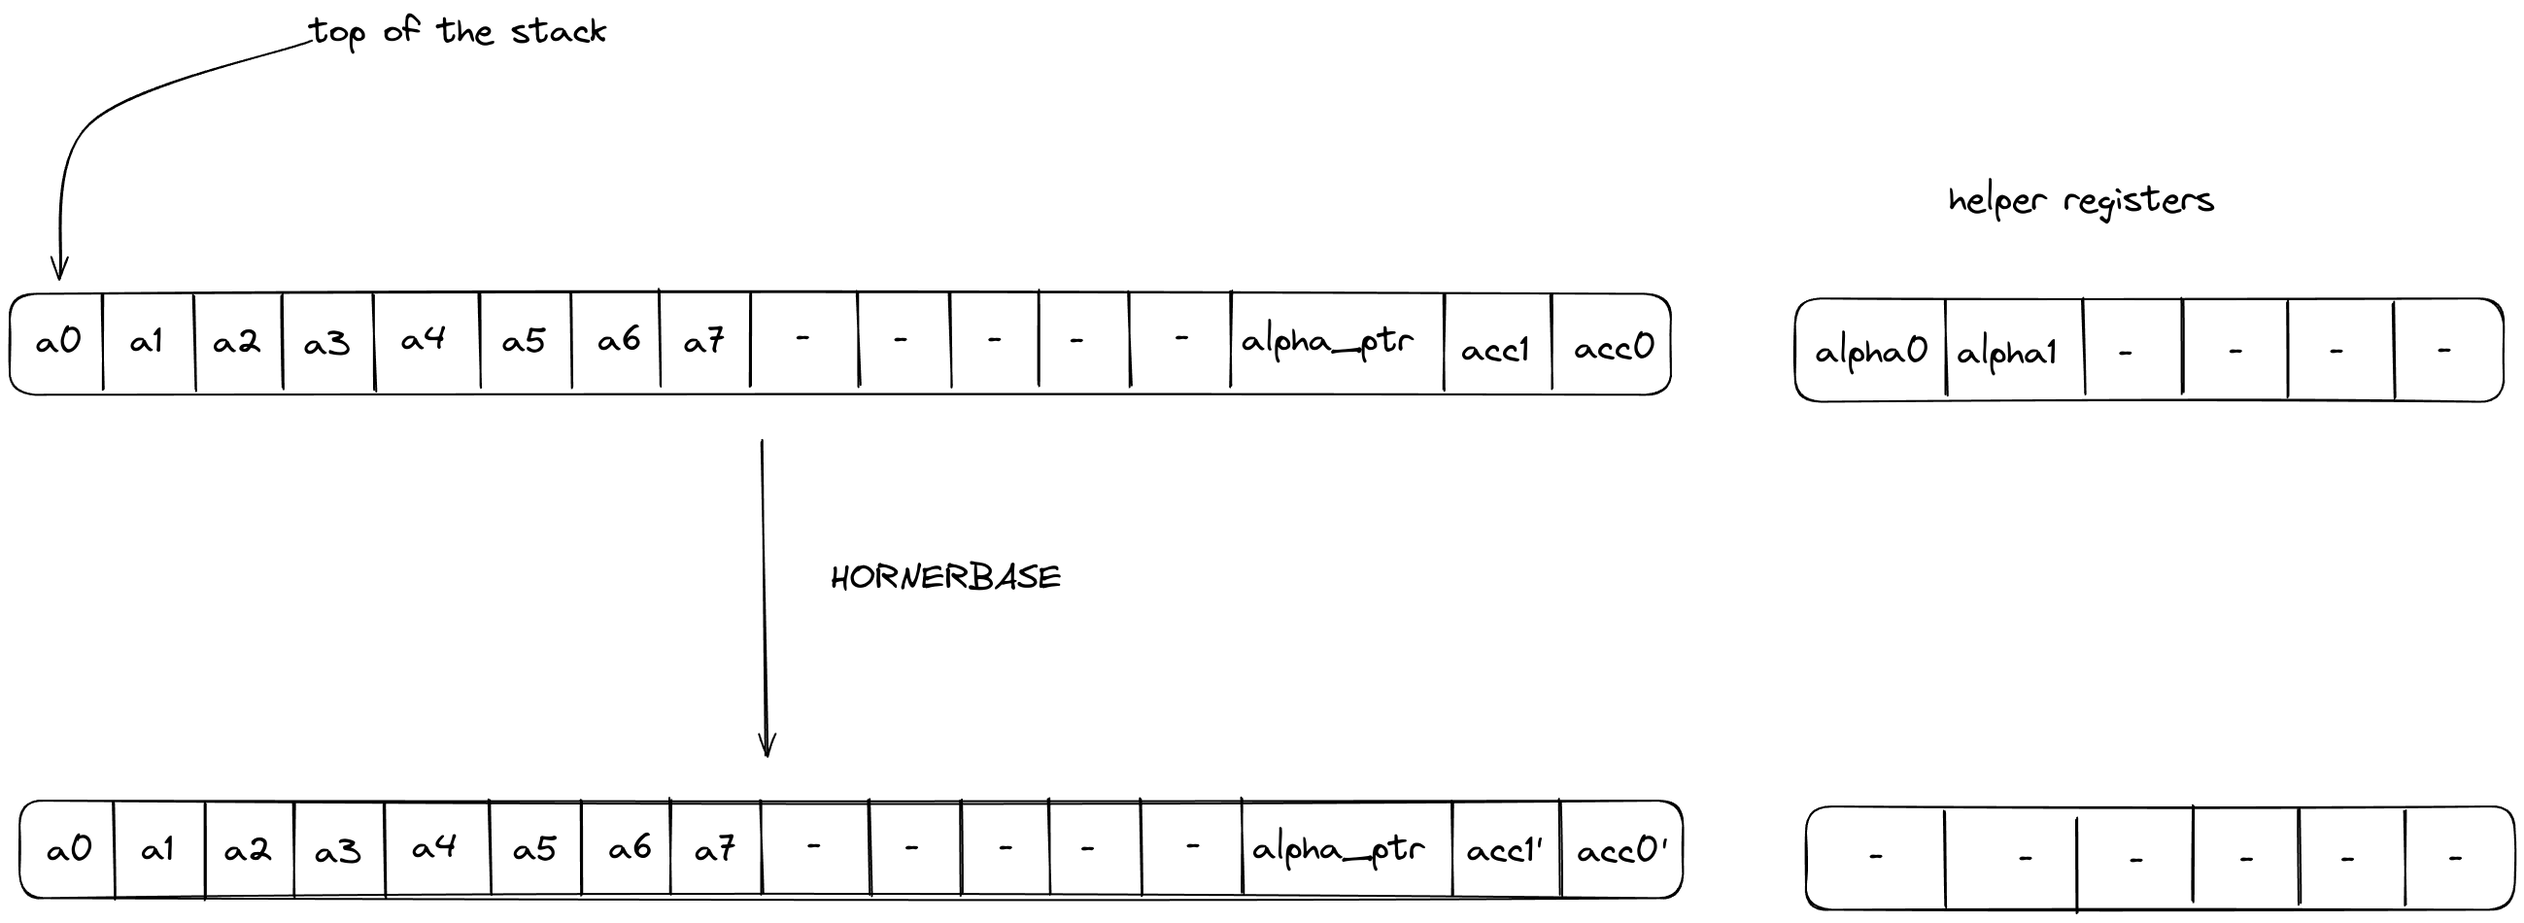
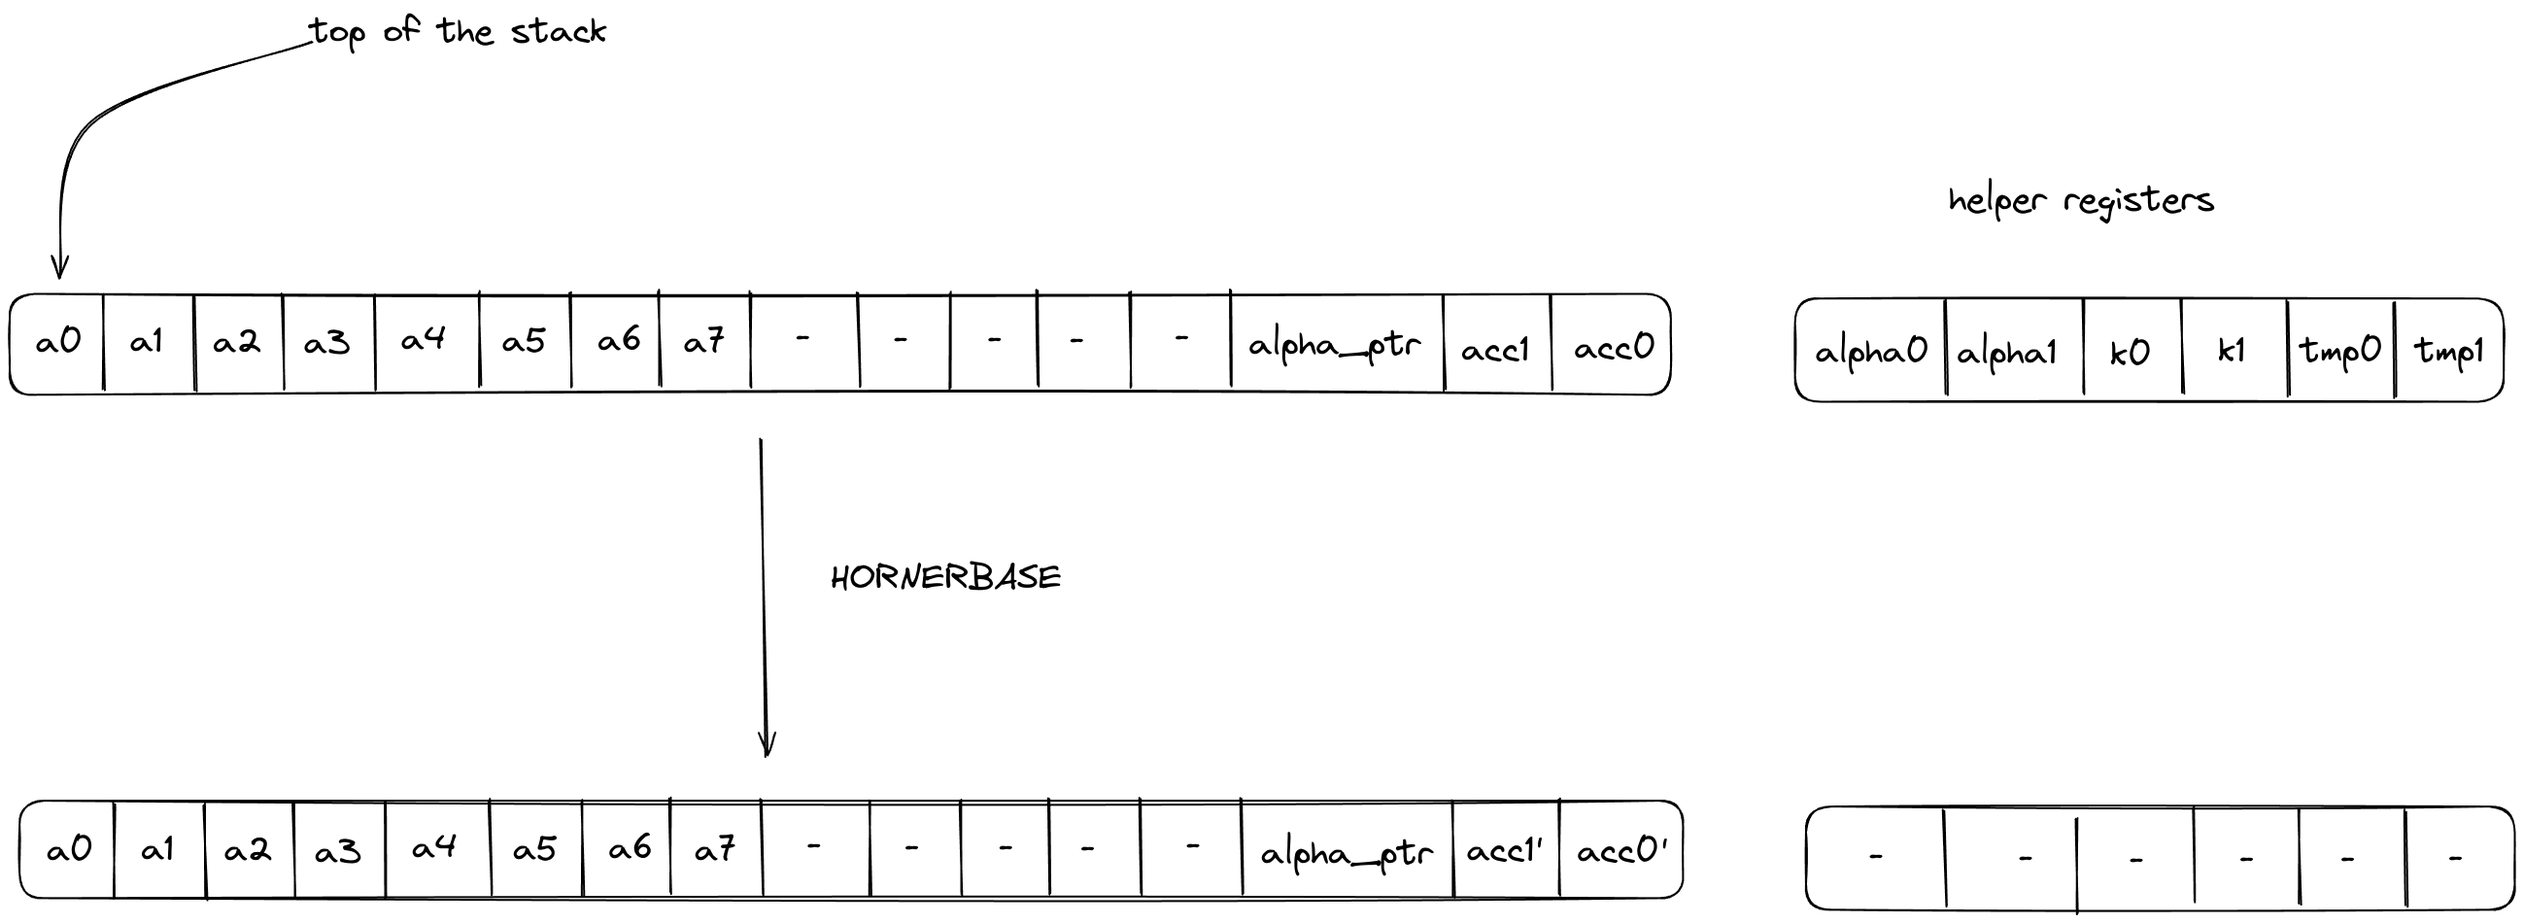
Add through constraints description and update Horner ops logic (#1817)
* feat: add constraints description and update instructions

* update changelog

* address feedback

diff --git a/processor/src/operations/horner_ops.rs b/processor/src/operations/horner_ops.rs
@@ -1,4 +1,4 @@
-use vm_core::{Felt, Operation, mast::MastNodeExt};
+use vm_core::{Felt, FieldElement, Operation, mast::MastNodeExt};
 
 use crate::{ExecutionError, Process, QuadFelt, errors::ErrorContext};
 
@@ -61,6 +61,8 @@ impl Process {
     ///
     /// The instruction also makes use of the helper registers to hold the value of
     /// alpha = (alpha0, alpha1) during the course of its execution.
+    /// The helper registers are also used in order to hold the second half of the memory word
+    /// containing (alpha0, alpha1), as well as the temporary values acc_tmp.
     pub(super) fn op_horner_eval_base(
         &mut self,
         error_ctx: &ErrorContext<'_, impl MastNodeExt>,
@@ -69,17 +71,39 @@ impl Process {
         let coef = self.get_coeff_as_base_elements();
 
         // read the evaluation point alpha from memory
-        let alpha = self.get_evaluation_point(error_ctx)?;
+        // we also read the second half of the memory word containing alpha
+        let (alpha, k0, k1) = self.get_evaluation_point(error_ctx)?;
 
-        // compute the updated accumulator value
+        // compute the temporary and updated accumulator values
         let acc_old = self.get_accumulator();
-        let acc_new =
-            coef.iter().rev().fold(acc_old, |acc, coef| QuadFelt::from(*coef) + alpha * acc);
+        let acc_tmp = coef
+            .iter()
+            .rev()
+            .take(4)
+            .fold(acc_old, |acc, coef| QuadFelt::from(*coef) + alpha * acc);
+        let acc_new = coef
+            .iter()
+            .rev()
+            .skip(4)
+            .fold(acc_tmp, |acc, coef| QuadFelt::from(*coef) + alpha * acc);
 
         // copy over the stack state to the next cycle changing only the accumulator values
         self.stack.copy_state(0);
         self.stack.set(ACC_HIGH_INDEX, acc_new.to_base_elements()[1]);
         self.stack.set(ACC_LOW_INDEX, acc_new.to_base_elements()[0]);
+
+        // set the helper registers
+        self.decoder.set_user_op_helpers(
+            Operation::HornerBase,
+            &[
+                alpha.base_element(0),
+                alpha.base_element(1),
+                k0,
+                k1,
+                acc_tmp.base_element(0),
+                acc_tmp.base_element(1),
+            ],
+        );
 
         Ok(())
     }
@@ -87,7 +111,11 @@ impl Process {
     /// Performs 4 steps of the Horner evaluation method on a polynomial with coefficients over
     /// the quadratic extension field, i.e., it computes
     ///
-    /// acc' = (((acc * alpha + c0) * alpha + c1) * alpha + c2) * alpha + c3
+    /// acc' = (acc_tmp * alpha + c2) * alpha + c3
+    ///
+    /// where
+    ///
+    /// acc_tmp = (acc * alpha + c0) * alpha + c1
     ///
     ///
     /// In other words, the intsruction computes the evaluation at alpha of the polynomial
@@ -125,6 +153,8 @@ impl Process {
     ///
     /// The instruction also makes use of the helper registers to hold the value of
     /// alpha = (alpha0, alpha1) during the course of its execution.
+    /// The helper registers are also used in order to hold the second half of the memory word
+    /// containing (alpha0, alpha1), as well as the temporary values acc_tmp.
     pub(super) fn op_horner_eval_ext(
         &mut self,
         error_ctx: &ErrorContext<'_, impl MastNodeExt>,
@@ -133,16 +163,31 @@ impl Process {
         let coef = self.get_coeff_as_quad_ext_elements();
 
         // read the evaluation point from memory
-        let alpha = self.get_evaluation_point(error_ctx)?;
+        // we also read the second half of the memory word containing alpha
+        let (alpha, k0, k1) = self.get_evaluation_point(error_ctx)?;
 
-        // compute the updated accumulator value
+        // compute the temporary and updated accumulator values
         let acc_old = self.get_accumulator();
-        let acc_new = coef.iter().rev().fold(acc_old, |acc, coef| *coef + alpha * acc);
+        let acc_tmp = coef.iter().rev().take(2).fold(acc_old, |acc, coef| *coef + alpha * acc);
+        let acc_new = coef.iter().rev().skip(2).fold(acc_tmp, |acc, coef| *coef + alpha * acc);
 
         // copy over the stack state to the next cycle changing only the accumulator values
         self.stack.copy_state(0);
         self.stack.set(ACC_HIGH_INDEX, acc_new.to_base_elements()[1]);
         self.stack.set(ACC_LOW_INDEX, acc_new.to_base_elements()[0]);
+
+        // set the helper registers
+        self.decoder.set_user_op_helpers(
+            Operation::HornerBase,
+            &[
+                alpha.base_element(0),
+                alpha.base_element(1),
+                k0,
+                k1,
+                acc_tmp.base_element(0),
+                acc_tmp.base_element(1),
+            ],
+        );
 
         Ok(())
     }
@@ -184,12 +229,12 @@ impl Process {
     }
 
     /// Returns the evaluation point.
-    ///
-    /// Also sets the helper registers to hold the word read from memory.
+    /// Also returns the second half, i.e., two field elements, that are stored next to
+    /// the evaluation point.
     fn get_evaluation_point(
         &mut self,
         error_ctx: &ErrorContext<'_, impl MastNodeExt>,
-    ) -> Result<QuadFelt, ExecutionError> {
+    ) -> Result<(QuadFelt, Felt, Felt), ExecutionError> {
         let ctx = self.system.ctx();
         let addr = self.stack.get(ALPHA_ADDR_INDEX);
         let word = self
@@ -200,9 +245,7 @@ impl Process {
         let alpha_0 = word[0];
         let alpha_1 = word[1];
 
-        self.decoder.set_user_op_helpers(Operation::HornerBase, &word);
-
-        Ok(QuadFelt::new(alpha_0, alpha_1))
+        Ok((QuadFelt::new(alpha_0, alpha_1), word[2], word[3]))
     }
 
     /// Reads the accumulator values.
@@ -287,11 +330,19 @@ mod tests {
 
         let alpha = QuadFelt::new(alpha_mem_word[0], alpha_mem_word[1]);
 
+        let acc_tmp = stack_state
+            .iter()
+            .take(8)
+            .rev()
+            .take(4)
+            .fold(acc_old, |acc, coef| QuadFelt::from(*coef) + alpha * acc);
+
         let acc_new = stack_state
             .iter()
             .take(8)
             .rev()
-            .fold(acc_old, |acc, coef| QuadFelt::from(*coef) + alpha * acc);
+            .skip(4)
+            .fold(acc_tmp, |acc, coef| QuadFelt::from(*coef) + alpha * acc);
 
         assert_eq!(acc_new.to_base_elements()[1], stack_state[ACC_HIGH_INDEX]);
         assert_eq!(acc_new.to_base_elements()[0], stack_state[ACC_LOW_INDEX]);
@@ -306,8 +357,8 @@ mod tests {
             alpha_mem_word[1],
             alpha_mem_word[2],
             alpha_mem_word[3],
-            ZERO,
-            ZERO,
+            acc_tmp.base_element(0),
+            acc_tmp.base_element(1),
         ];
         assert_eq!(helper_reg_expected, process.decoder.get_user_op_helpers());
     }
@@ -370,11 +421,16 @@ mod tests {
 
         let alpha = QuadFelt::new(alpha_mem_word[0], alpha_mem_word[1]);
 
-        let acc_new = stack_state
+        let coefficients: Vec<_> = stack_state
             .chunks(2)
             .take(4)
-            .rev()
-            .fold(acc_old, |acc, coef| QuadFelt::new(coef[1], coef[0]) + alpha * acc);
+            .map(|coef| QuadFelt::new(coef[1], coef[0]))
+            .collect();
+
+        let acc_tmp =
+            coefficients.iter().rev().take(2).fold(acc_old, |acc, coef| *coef + alpha * acc);
+        let acc_new =
+            coefficients.iter().rev().skip(2).fold(acc_tmp, |acc, coef| *coef + alpha * acc);
 
         assert_eq!(acc_new.to_base_elements()[1], stack_state[ACC_HIGH_INDEX]);
         assert_eq!(acc_new.to_base_elements()[0], stack_state[ACC_LOW_INDEX]);
@@ -389,8 +445,8 @@ mod tests {
             alpha_mem_word[1],
             alpha_mem_word[2],
             alpha_mem_word[3],
-            ZERO,
-            ZERO,
+            acc_tmp.base_element(0),
+            acc_tmp.base_element(1),
         ];
         assert_eq!(helper_reg_expected, process.decoder.get_user_op_helpers());
     }

diff --git a/docs/src/design/stack/crypto_ops.md b/docs/src/design/stack/crypto_ops.md
@@ -153,13 +153,15 @@ The effect on the rest of the stack is:
 
 ## HORNERBASE
 The `HORNERBASE` operation performs $8$ steps of the Horner method for evaluating a polynomial with coefficients over the base field at a point in the quadratic extension field. More precisely, it performs the following update to the accumulator on the stack
-    $$\mathsf{acc}^{'} = (((((((((\mathsf{acc} \cdot \alpha + a_7) \cdot \alpha + a_6) \cdot \alpha + a_5) \cdot \alpha + a_4) \cdot \alpha + a_3) \cdot \alpha + a_2) \cdot \alpha + a_1) \cdot \alpha + a_0$$
-where $a_i$ are the coefficients of the polynomial, $\alpha$ the evaluation point, $\mathsf{acc}$ the current accumulator value and $\mathsf{acc}^{'}$ the updated accumulator value.
+    $$\mathsf{tmp} = (((\mathsf{acc} \cdot \alpha + a_7) \cdot \alpha + a_6) \cdot \alpha + a_5) \cdot \alpha + a_4$$
+
+   $$\mathsf{acc}^{'} = (((\mathsf{tmp} \cdot \alpha + a_3) \cdot \alpha + a_2) \cdot \alpha + a_1) \cdot \alpha + a_0$$
+where $a_i$ are the coefficients of the polynomial, $\alpha$ the evaluation point, $\mathsf{acc}$ the current accumulator value, $\mathsf{acc}^{'}$ the updated accumulator value, and $\mathsf{tmp}$ is a helper variable used for constraint degree reduction.
 
 The stack for the operation is expected to be arranged as follows:
-- The first $8$ stack elements contain $8$ base field elements $a_0,\cdots , a_7$ representing the current 8-element batch of coefficients for the polynomial being evaluated.
+- The first $8$ stack elements are the $8$ base field elements $a_0,\cdots , a_7$ representing the current 8-element batch of coefficients for the polynomial being evaluated.
 - The next $5$ stack elements are irrelevant for the operation and unaffected by it.
-- The next stack element contains the value of the memory pointer `alpha_ptr` to the evaluation point $\alpha$. The word address containing $\alpha = (\alpha_0, \alpha_1)$ is expected to have layout $[\alpha_0, \alpha_1, 0, 0]$.
+- The next stack element contains the value of the memory pointer `alpha_ptr` to the evaluation point $\alpha$. The word address containing $\alpha = (\alpha_0, \alpha_1)$ is expected to have layout $[\alpha_0, \alpha_1, k_0, k_1]$ where $[k_0, k_1]$ is the second half of the memory word containing $\alpha$. Note that, in the context of the above expressions, we only care about the first half i.e., $[\alpha_0, \alpha_1]$, but providing the second half of the word in order to be able to do a one word memory read is more optimal than doing two element memory reads.
 - The next $2$ stack elements contain the value of the current accumulator $\textsf{acc} = (\textsf{acc}_0, \textsf{acc}_1)$.
 
 The diagram below illustrates the stack transition for `HORNERBASE` operation.
@@ -167,7 +169,38 @@ The diagram below illustrates the stack transition for `HORNERBASE` operation.
 ![horner_eval_base](../../assets/design/stack/crypto_ops/HORNERBASE.png)
 
 After calling the operation:
+- Helper registers $h_i$ will contain the values $[\alpha_0, \alpha_1, k_0, k_1, \mathsf{tmp}_0, \mathsf{tmp}_1]$.
 - Stack elements $14$ and $15$ will contain the value of the updated accumulator i.e., $\mathsf{acc}^{'}$.
+
+More specifically, the stack transition for this operation must satisfy the following constraints:
+
+>$$
+\begin{align*}
+    \mathsf{tmp}_0 &= \mathsf{acc}_0 \cdot \alpha_0^4 - 8 \cdot \mathsf{acc}_1 \cdot \alpha_0^3 \cdot \alpha_1 - 12 \cdot \mathsf{acc}_0 \cdot \alpha_0^2 \cdot \alpha_1^2 \\ 
+    &- 12 \cdot \mathsf{acc}_1 \cdot \alpha_0^2 \cdot \alpha_1^2 - 8 \cdot \mathsf{acc}_0 \cdot \alpha_0 \cdot \alpha_1^3 \\ 
+    &+ 8 \cdot \mathsf{acc}_1\cdot\alpha_0\cdot\alpha_1^3 + 2\cdot\mathsf{acc}_0\cdot\alpha_1^4 \\ 
+    &+ 6\cdot\mathsf{acc}_1\cdot\alpha_1^4 + s_7\cdot\alpha_0^3 - 6 \cdot s_7\cdot\alpha_0\cdot\alpha_1^2 \\ 
+    &- 2 \cdot s_7\cdot\alpha_1^3 + s_6\cdot\alpha_0^2 - 2\cdot s_6\cdot\alpha_1^2 + s_5\cdot\alpha_0 + s_4  \text{ | degree} = 5
+\end{align*}
+$$
+
+>$$
+\begin{align*}
+\mathsf{tmp}_1 &= \mathsf{acc}_1 \cdot \alpha_0^4 + 4 \cdot \mathsf{acc}_0 \cdot \alpha_0^3 \cdot \alpha_1 + 4 \cdot \mathsf{acc}_1 \cdot \alpha_0^3 \cdot \alpha_1 \\ &+ 6 \cdot \mathsf{acc}_0 \cdot \alpha_0^2 \cdot \alpha_1^2 - 6 \cdot \mathsf{acc}_1 \cdot \alpha_0^2 \cdot \alpha_1^2 \\ &- 4 \cdot \mathsf{acc}_0 \cdot \alpha_0\cdot\alpha_1^3 - 12 \cdot \mathsf{acc}_1 \cdot \alpha_0 \cdot \alpha_1^3 \\ & - 3 \cdot\mathsf{acc}_0 \cdot \alpha_1^4 - \mathsf{acc}_1 \cdot \alpha_1^4 + 3 \cdot s_7 \cdot \alpha_0^2\cdot\alpha_1 \\ &+ 3 \cdot s_7 \cdot \alpha_0\cdot\alpha_1^2 - s_7   \cdot\alpha_1^3 + 2\cdot s_6\cdot\alpha_0\cdot\alpha_1 + s_6\cdot\alpha_1^2 + s_5\cdot\alpha_1  \text{ | degree} = 5
+\end{align*}
+$$
+
+>$$
+\begin{align*}
+\mathsf{acc}_0^{'} &= \mathsf{tmp}_0\cdot\alpha_0^4 - 8 \cdot\mathsf{tmp}_1\cdot\alpha_0^3\cdot\alpha_1 - 12 \cdot\mathsf{tmp}_0\cdot\alpha_0^2\cdot\alpha_1^2  \\ &- 12\cdot\mathsf{tmp}_1\cdot\alpha_0^2\cdot\alpha_1^2 - 8\cdot\mathsf{tmp}_0\cdot\alpha_0\cdot\alpha_1^3 + 8\cdot\mathsf{tmp}_1\cdot\alpha_0\cdot\alpha_1^3 \\ &+ 2\cdot\mathsf{tmp}_0\cdot\alpha_1^4 + 6\cdot\mathsf{tmp}_1\cdot\alpha_1^4 +  s_3\cdot\alpha_0^3 - 6\cdot s_3\cdot\alpha_0\cdot\alpha_1^2 \\ &- 2\cdot s_3\cdot\alpha_1^3 +  s_2\cdot\alpha_0^2 - 2\cdot s_2\cdot\alpha_1^2 +  s_1\cdot\alpha_0 + s_0  \text{ | degree} = 5
+\end{align*}
+$$
+
+>$$
+\begin{align*}
+\mathsf{acc}_1^{'} &= \mathsf{tmp}_1\cdot\alpha_0^4 + 4\cdot\mathsf{tmp}_0\cdot\alpha_0^3\cdot\alpha_1 + 4\cdot\mathsf{tmp}_1\cdot\alpha_0^3\cdot\alpha_1 + 6\cdot\mathsf{tmp}_0\cdot\alpha_0^2\cdot\alpha_1^2 \\ &- 6\cdot\mathsf{tmp}_1\cdot\alpha_0^2\cdot\alpha_1^2 - 4 \cdot \mathsf{tmp}_0\cdot\alpha_0\cdot\alpha_1^3 -12\cdot\mathsf{tmp}_1\cdot\alpha_0\cdot\alpha_1^3 \\ &- 3\cdot\mathsf{tmp}_0\cdot\alpha_1^4 - \mathsf{tmp}_1\cdot\alpha_1^4 + 3\cdot s_3\cdot\alpha_0^2\cdot\alpha_1 \\ &+ 3\cdot s_3\cdot\alpha_0\cdot\alpha_1^2 -  s_3\cdot\alpha_1^3 + 2\cdot s_2\cdot\alpha_0\cdot\alpha_1 +  s_2\cdot\alpha_1^2 +  s_1\cdot\alpha_1  \text{ | degree} = 5
+\end{align*}
+$$
 
 The effect on the rest of the stack is:
 * **No change.**
@@ -175,18 +208,20 @@ The effect on the rest of the stack is:
 The `HORNERBASE` makes one memory access request:
 
 $$
-u_{mem} = \alpha_0 + \alpha_1 \cdot op_{mem\_readword} + \alpha_2 \cdot ctx + \alpha_3 \cdot s_{13} + \alpha_4 \cdot clk + \alpha_{5} \cdot h_{0} + \alpha_{6} \cdot h_{1}
+u_{mem} = \alpha_0 + \alpha_1 \cdot op_{mem\_readword} + \alpha_2 \cdot ctx + \alpha_3 \cdot s_{13} + \alpha_4 \cdot clk + \alpha_{5} \cdot h_{0} + \alpha_{6} \cdot h_{1} + \alpha_{7} \cdot h_{3} + \alpha_{8} \cdot h_{4}
 $$
 
 ## HORNEREXT
 The `HORNEREXT` operation performs $4$ steps of the Horner method for evaluating a polynomial with coefficients over the quadratic extension field at a point in the quadratic extension field. More precisely, it performs the following update to the accumulator on the stack
-    $$\mathsf{acc}^{'} = (((\mathsf{acc} \cdot \alpha + a_3) \cdot \alpha + a_2) \cdot \alpha + a_1) \cdot \alpha + a_0$$
-where $a_i$ are the coefficients of the polynomial, $\alpha$ the evaluation point, $\mathsf{acc}$ the current accumulator value and $\mathsf{acc}^{'}$ the updated accumulator value.
+    $$\mathsf{tmp} = (\mathsf{acc} \cdot \alpha + a_3) \cdot \alpha + a_2$$
+$$\mathsf{acc}^{'} = (\mathsf{tmp} \cdot \alpha + a_1) \cdot \alpha + a_0$$
+
+where $a_i$ are the coefficients of the polynomial, $\alpha$ the evaluation point, $\mathsf{acc}$ the current accumulator value, $\mathsf{acc}^{'}$ the updated accumulator value, and $\mathsf{tmp}$ is a helper variable used for constraint degree reduction.
 
 The stack for the operation is expected to be arranged as follows:
-- The first $8$ stack elements contain $8$ base field elements $a_0,\cdots , a_7$ representing the current 4-element batch of coefficients, in the quadratic extension field, for the polynomial being evaluated.
+- The first $8$ stack elements contain $8$ base field elements that make up the current 4-element batch of coefficients, in the quadratic extension field, for the polynomial being evaluated.
 - The next $5$ stack elements are irrelevant for the operation and unaffected by it.
-- The next stack element contains the value of the memory pointer `alpha_ptr` to the evaluation point $\alpha$. The word address containing $\alpha = (\alpha_0, \alpha_1)$ is expected to have layout $[\alpha_0, \alpha_1, 0, 0]$.
+- The next stack element contains the value of the memory pointer `alpha_ptr` to the evaluation point $\alpha$. The word address containing $\alpha = (\alpha_0, \alpha_1)$ is expected to have layout $[\alpha_0, \alpha_1, k_0, k_1]$ where $[k_0, k_1]$ is the second half of the memory word containing $\alpha$. Note that, in the context of the above expressions, we only care about the first half i.e., $[\alpha_0, \alpha_1]$, but providing the second half of the word in order to be able to do a one word memory read is more optimal than doing two element memory reads.
 - The next $2$ stack elements contain the value of the current accumulator $\textsf{acc} = (\textsf{acc}_0, \textsf{acc}_1)$.
 
 The diagram below illustrates the stack transition for `HORNEREXT` operation.
@@ -194,7 +229,34 @@ The diagram below illustrates the stack transition for `HORNEREXT` operation.
 ![horner_eval_ext](../../assets/design/stack/crypto_ops/HORNEREXT.png)
 
 After calling the operation:
+- Helper registers $h_i$ will contain the values $[\alpha_0, \alpha_1, k_0, k_1, \mathsf{tmp}_0, \mathsf{tmp}_1]$.
 - Stack elements $14$ and $15$ will contain the value of the updated accumulator i.e., $\mathsf{acc}^{'}$.
+
+More specifically, the stack transition for this operation must satisfy the following constraints:
+
+>$$
+\begin{align*}
+\mathsf{tmp}_0 &= \mathsf{acc}_0\cdot \alpha_0^2 - 4\cdot \mathsf{acc}_1\cdot \alpha_0\cdot \alpha_1 - 2\cdot \mathsf{acc}_0\cdot \alpha_1^2 \\ &- 2\cdot \mathsf{acc}_1\cdot \alpha_1^2 + s_6\cdot \alpha_0 -2\cdot s_7\cdot \alpha_1 + s_4  \text{ | degree} = 3
+\end{align*}
+$$
+
+>$$
+\begin{align*}
+\mathsf{tmp}_1 &= \mathsf{acc}_1\cdot \alpha_0^2 + 2\cdot \mathsf{acc}_0\cdot \alpha_0\cdot \alpha_1 + 2\cdot \mathsf{acc}_1\cdot \alpha_0\cdot \alpha_1 \\ &+ \mathsf{acc}_0\cdot \alpha_1^2 - \mathsf{acc}_1\cdot \alpha_1^2 + s_7\cdot \alpha_0 + s_6\cdot \alpha_1 + s_7\cdot \alpha_1 + s_5  \text{ | degree} = 3
+\end{align*}
+$$
+
+>$$
+\begin{align*}
+\mathsf{acc}_0^{'} &= \mathsf{tmp}_0\cdot \alpha_0^2 - 4\cdot \mathsf{tmp}_1\cdot \alpha_0\cdot \alpha_1 - 2\cdot \mathsf{tmp}_0\cdot \alpha_1^2 \\& - 2\cdot \mathsf{tmp}_1\cdot \alpha_1^2 + s_2\cdot \alpha_0 - 2\cdot s_3\cdot \alpha_1 + s_0  \text{ | degree} = 3
+\end{align*}
+$$
+
+>$$
+\begin{align*}
+\mathsf{acc}_1^{'} &= \mathsf{tmp}_1\cdot \alpha_0^2 + 2\cdot \mathsf{tmp}_0\cdot \alpha_0\cdot \alpha_1 + 2\cdot \mathsf{tmp}_1\cdot \alpha_0\cdot \alpha_1 \\& + \mathsf{tmp}_0\cdot \alpha_1^2 - \mathsf{tmp}_1\cdot \alpha_1^2 + s_3\cdot \alpha_0 + s_2\cdot \alpha_1 + s_3\cdot \alpha_1 + s_1  \text{ | degree} = 3
+\end{align*}
+$$
 
 The effect on the rest of the stack is:
 * **No change.**
@@ -202,5 +264,5 @@ The effect on the rest of the stack is:
 The `HORNEREXT` makes one memory access request:
 
 $$
-u_{mem} = \alpha_0 + \alpha_1 \cdot op_{mem\_readword} + \alpha_2 \cdot ctx + \alpha_3 \cdot s_{13} + \alpha_4 \cdot clk + \alpha_{5} \cdot h_{0} + \alpha_{6} \cdot h_{1}
+u_{mem} = \alpha_0 + \alpha_1 \cdot op_{mem\_readword} + \alpha_2 \cdot ctx + \alpha_3 \cdot s_{13} + \alpha_4 \cdot clk + \alpha_{5} \cdot h_{0} + \alpha_{6} \cdot h_{1} + \alpha_{7} \cdot h_{3} + \alpha_{8} \cdot h_{4}
 $$

diff --git a/CHANGELOG.md b/CHANGELOG.md
@@ -2,6 +2,10 @@
 
 ## 0.15.0 (TBD)
 
+#### Enhancements
+
+- Add a complete description of the constraints for `horner_eval_base` and `horner_eval_ext` (#1817).
+
 #### Changes
 - Improve error messages for some assembler instruction (#1785)
 - Remove `idx` column from Kernel ROM chiplet and use chiplet bus for initialization. (#1818)
